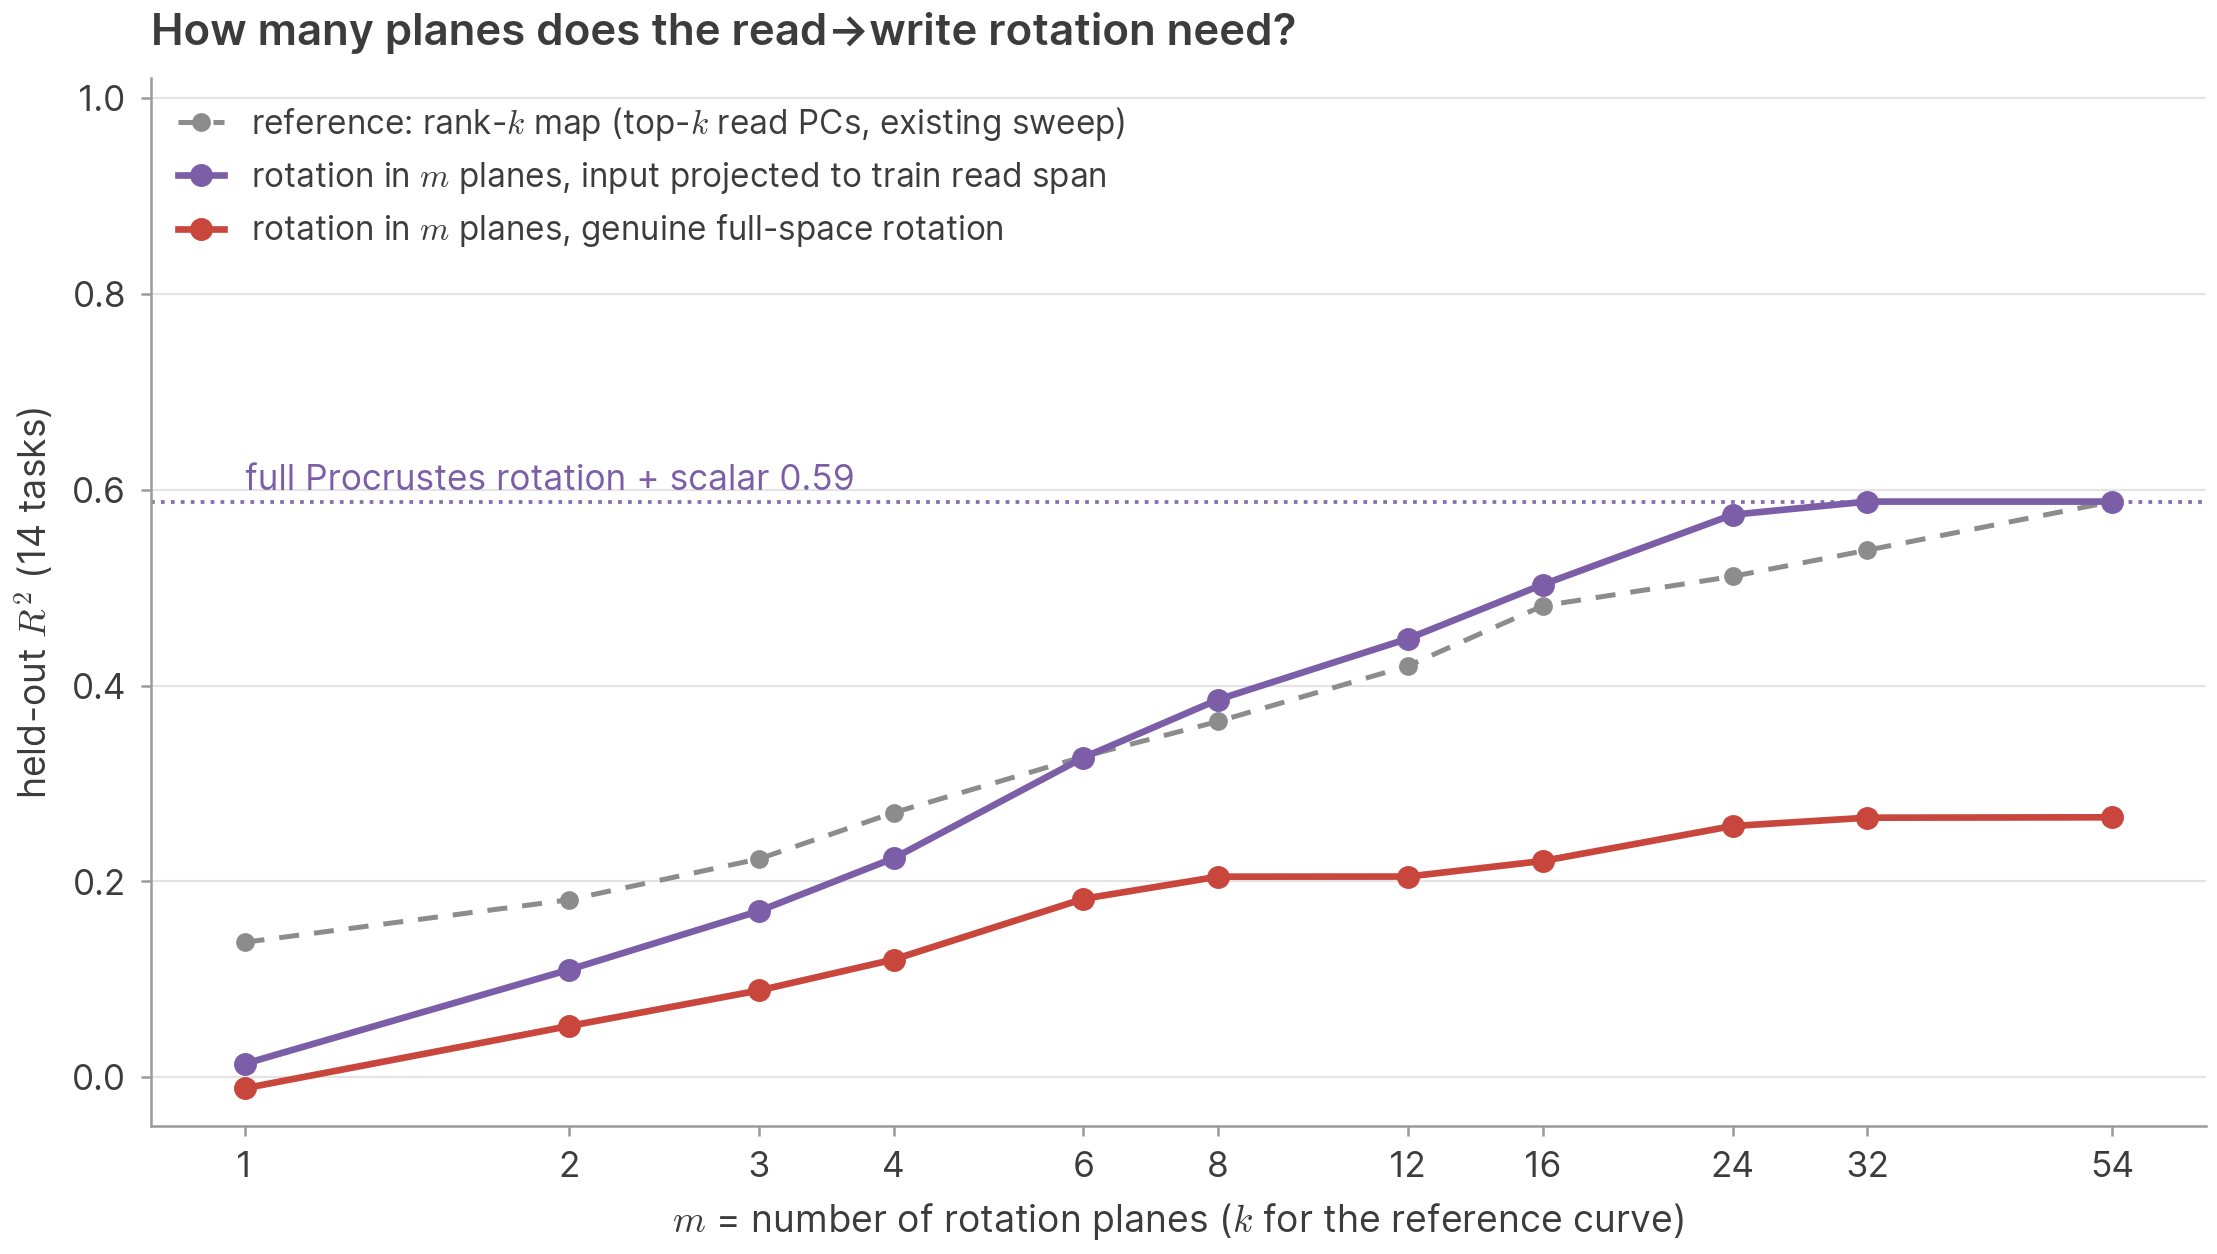
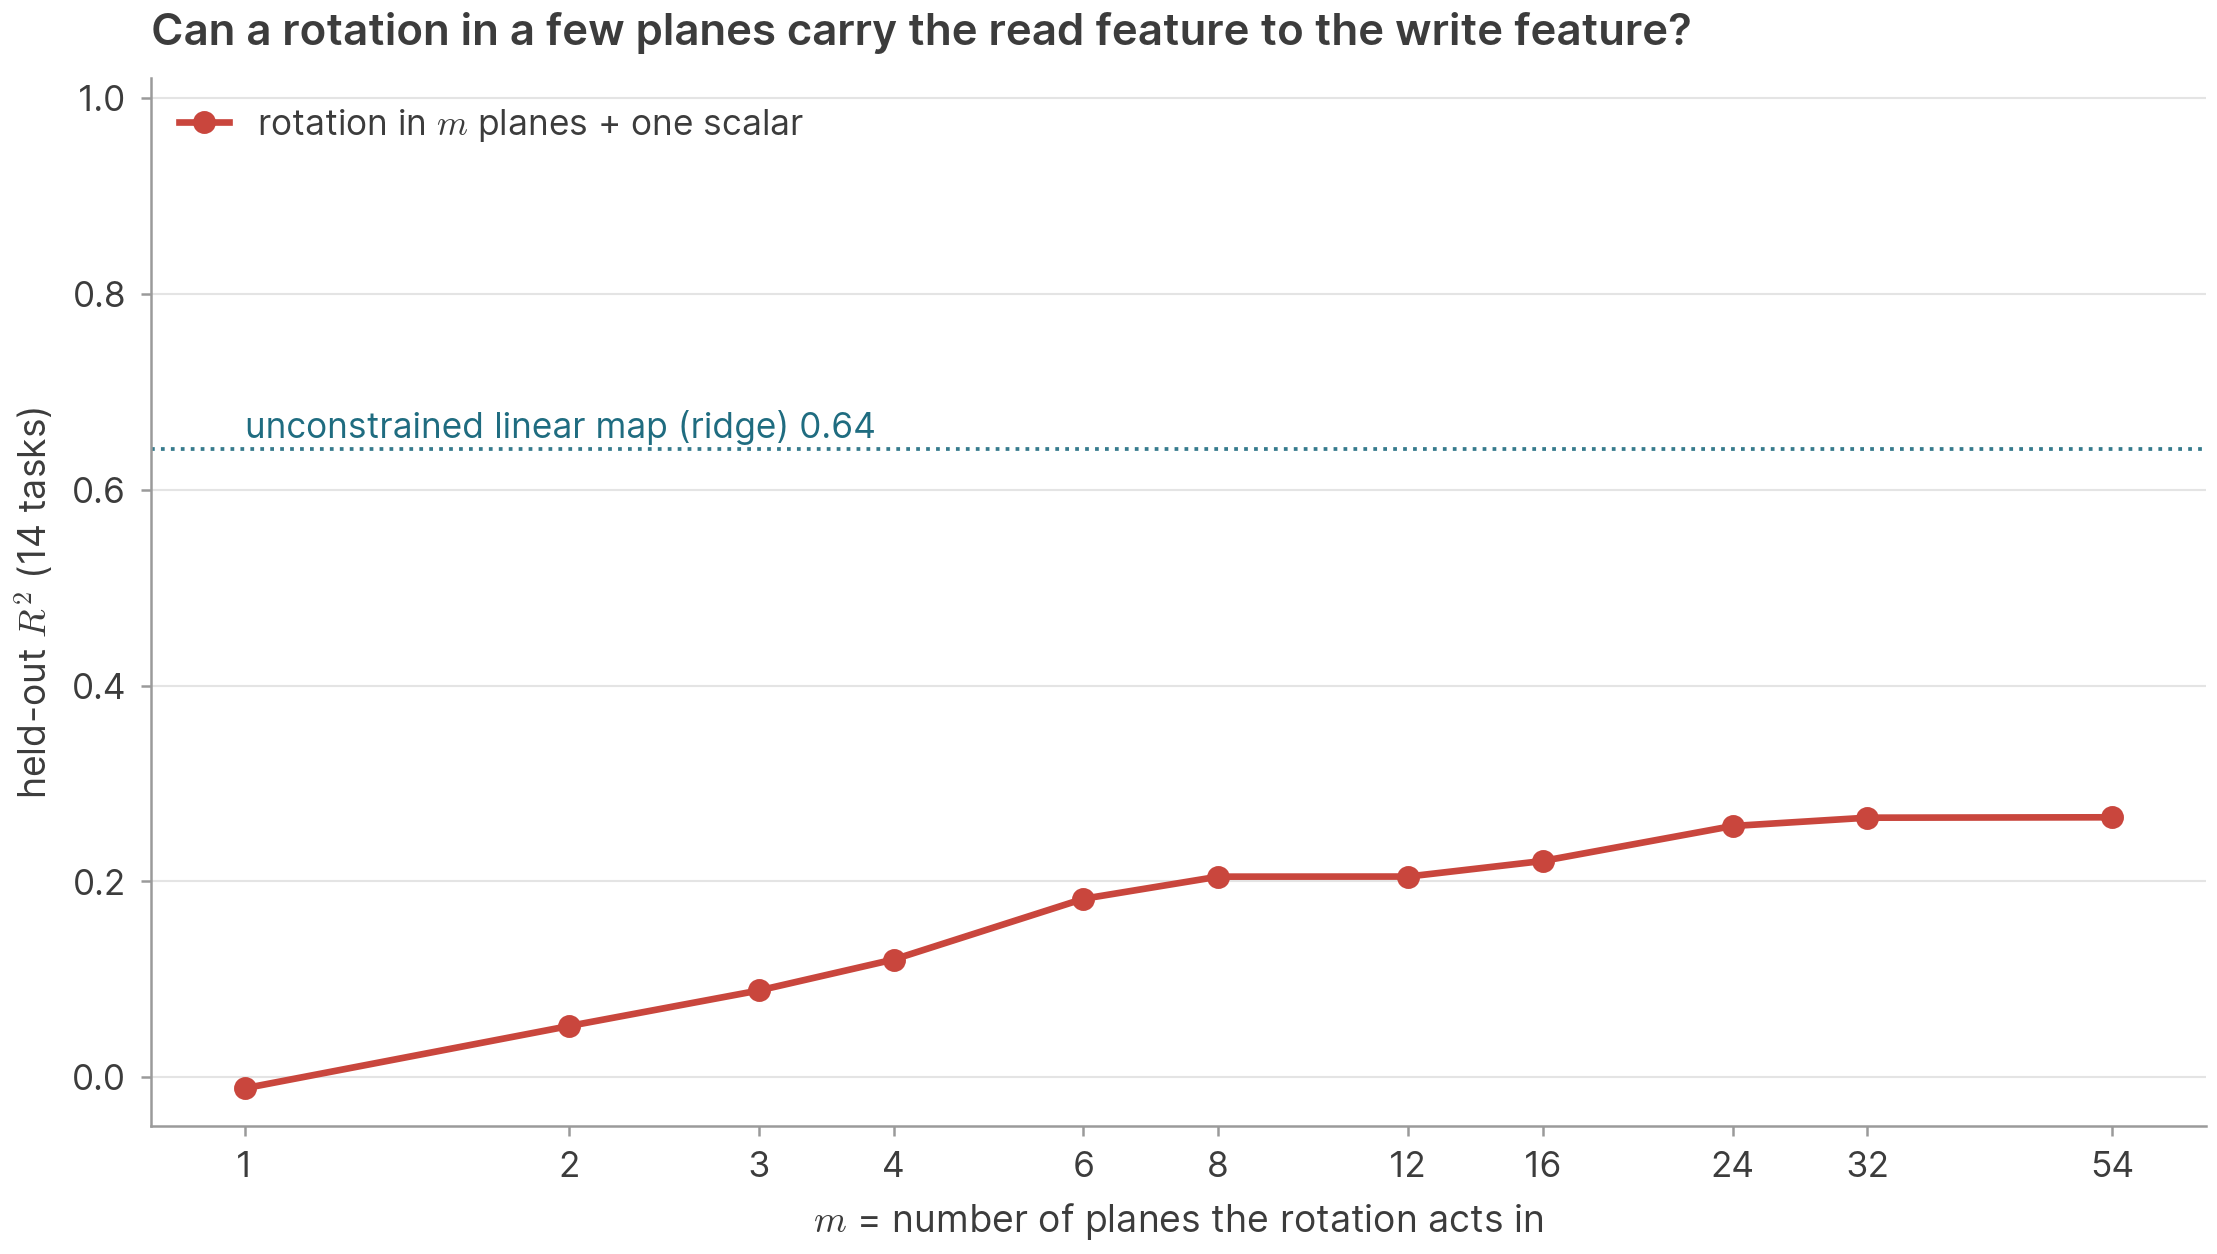
mplane_sweep figure: genuine full-space rotation only vs ridge reference (user decision); --plot_only; WORKLOG

diff --git a/src/eval_scripts/claim6_mplane_rotation.py b/src/eval_scripts/claim6_mplane_rotation.py
@@ -19,11 +19,14 @@ is kept. Held-out R^2 on the 14 tasks, test-mean reference, is reported two ways
   fullspace  : the same fitted R applied as a true rotation of R^d. The 38% of held-out read
                variance outside the train span passes through unrotated (orthogonal to the FVs).
 
-Reference curve: rotation+scale of the existing rank-k sweep (meanresid_map/kdim_sweep.csv).
+Figure (user decision 2026-09-09): the genuine full-space rotation only, against the unconstrained
+linear map (ridge, meanresid_map/fits_summary.csv) as the reference. Ridge is a legitimate
+full-space linear map (it annihilates the out-of-span component; a rotation cannot), so the two are
+on the same footing. The projected-input column stays in the CSV. `--plot_only` redraws from the CSV.
 
 Writes results/69_task_run/understanding_read_write_linear_map/meanresid_map/
   mplane_sweep.csv, mplane_sweep.png
-CPU, fp64, ~8 min.
+CPU, fp64, ~8 min (plot only: seconds).
 """
 import csv
 import sys
@@ -116,24 +119,30 @@ def main():
     with open(OUT / "mplane_sweep.csv", "w", newline="") as fh:
         w = csv.DictWriter(fh, fieldnames=list(rows[0])); w.writeheader(); w.writerows(rows)
 
-    kd = list(csv.DictReader(open(OUT / "kdim_sweep.csv")))
-    fig, ax = plt.subplots(figsize=(7.6, 4.4))
-    ax.plot([int(r["k"]) for r in kd], [float(r["rotscale_r2"]) for r in kd], color=C.grey, lw=1.2, ls=(0, (4, 3)),
-            marker="o", ms=3.5, label="reference: rank-$k$ map (top-$k$ read PCs, existing sweep)")
-    ax.plot(MS, [r["heldout_r2_projected_input"] for r in rows], color=C.purple, lw=1.6, marker="o",
-            label="rotation in $m$ planes, input projected to train read span")
-    ax.plot(MS, [r["heldout_r2_fullspace"] for r in rows], color=C.red, lw=1.6, marker="o",
-            label="rotation in $m$ planes, genuine full-space rotation")
-    ax.axhline(full_rs, color=C.purple, lw=0.9, ls=":", alpha=0.9)
-    ax.text(MS[0], full_rs + 0.012, f"full Procrustes rotation + scalar {full_rs:.2f}", ha="left", fontsize=8.5, color=C.purple)
-    ax.set_xscale("log", base=2); ax.set_xticks(MS); ax.set_xticklabels([str(m) for m in MS])
-    ax.set_xlabel("$m$ = number of rotation planes ($k$ for the reference curve)")
-    ax.set_ylabel("held-out $R^2$ (14 tasks)")
-    ax.set_ylim(-0.05, 1.02); ax.legend(loc="upper left", fontsize=8)
-    ax.set_title("How many planes does the read→write rotation need?")
-    fig.tight_layout(); fig.savefig(OUT / "mplane_sweep.png"); plt.close(fig)
+    plot(rows)
     print("wrote", OUT / "mplane_sweep.csv", OUT / "mplane_sweep.png")
 
 
+def plot(rows):
+    ridge = next(float(r["heldout_r2_testmean"]) for r in csv.DictReader(open(OUT / "fits_summary.csv"))
+                 if r["method"] == "ridge")
+    ms = [int(r["m_planes"]) for r in rows]
+    fig, ax = plt.subplots(figsize=(7.6, 4.4))
+    ax.plot(ms, [float(r["heldout_r2_fullspace"]) for r in rows], color=C.red, lw=1.6, marker="o",
+            label="rotation in $m$ planes + one scalar")
+    ax.axhline(ridge, color=C.map, lw=0.9, ls=":", alpha=0.9)
+    ax.text(ms[0], ridge + 0.012, f"unconstrained linear map (ridge) {ridge:.2f}", ha="left", fontsize=8.5, color=C.map)
+    ax.set_xscale("log", base=2); ax.set_xticks(ms); ax.set_xticklabels([str(m) for m in ms])
+    ax.set_xlabel("$m$ = number of planes the rotation acts in")
+    ax.set_ylabel("held-out $R^2$ (14 tasks)")
+    ax.set_ylim(-0.05, 1.02); ax.legend(loc="upper left", fontsize=8.5)
+    ax.set_title("Can a rotation in a few planes carry the read feature to the write feature?")
+    fig.tight_layout(); fig.savefig(OUT / "mplane_sweep.png"); plt.close(fig)
+
+
 if __name__ == "__main__":
-    main()
+    if "--plot_only" in sys.argv:
+        plot(list(csv.DictReader(open(OUT / "mplane_sweep.csv"))))
+        print("wrote", OUT / "mplane_sweep.png")
+    else:
+        main()

diff --git a/WORKLOG.md b/WORKLOG.md
@@ -33,8 +33,12 @@ full-space rotation (identity outside the fitted planes) scores only 0.27 held-o
 because the out-of-span 38% passes through unrotated, orthogonal to the FVs. Appendix G's
 "rigidly rotate" should read "project onto the train read span, rotate, rescale once".
 
-**Files:** script above; `understanding_read_write_linear_map/meanresid_map/mplane_sweep.{csv,png}`
-(figure: m-plane rotation projected / full-space vs the existing rank-k reference curve).
+**Files:** script above; `understanding_read_write_linear_map/meanresid_map/mplane_sweep.{csv,png}`.
+**Figure (USER DECISION, same day):** the genuine full-space rotation curve ONLY (red), against the
+unconstrained ridge 0.64 as the reference — ridge is a legitimate full-space linear map (it
+annihilates the out-of-span component, which a rotation cannot), so the two are on the same
+footing; the projected-input curve and the rank-k reference were dropped from the figure (the
+projected column stays in the CSV). `--plot_only` redraws from the CSV.
 **Next:** none (paper wording is the user's call). **Blockers:** none.
 
 ---
